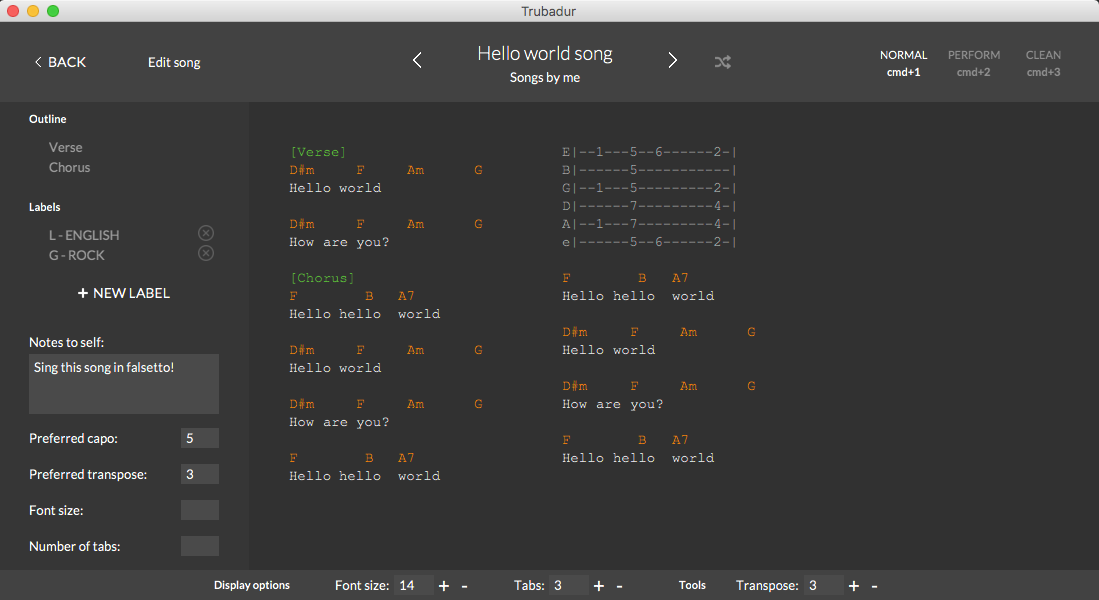
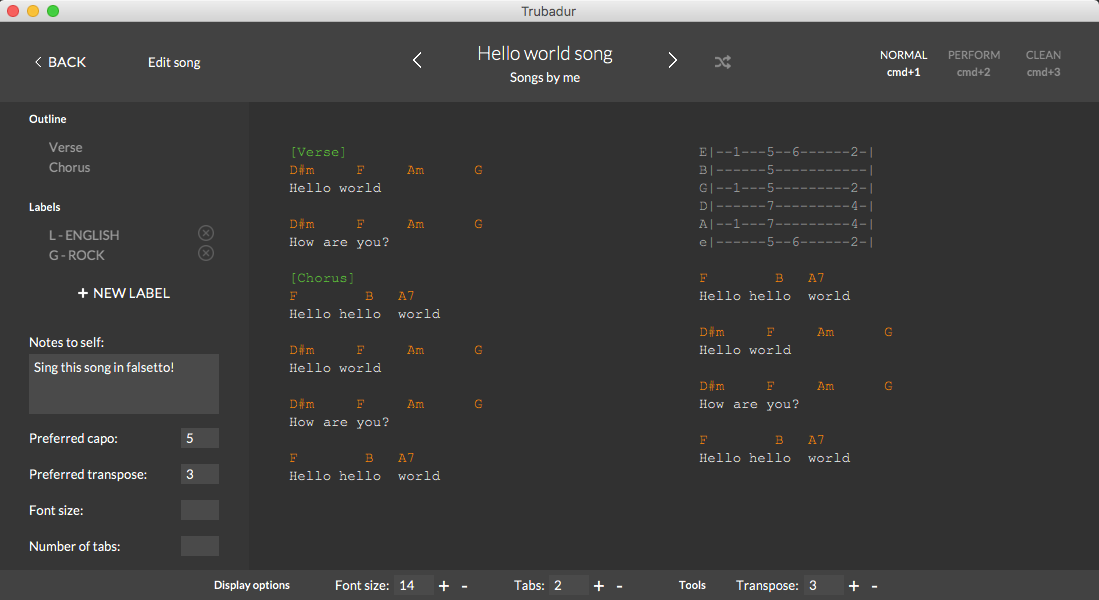
Added some images, changed some images and added a new selector for song-display images.

diff --git a/index.html b/index.html
@@ -79,14 +79,24 @@
                 <label>Select which songs to play.</label>
                 <div class="imageWrapper"><a class="active" href="images/song-overview5.png"><img src="images/song-overview5.png" /></a></div>
     
-                <label>Display selected songs. Add notes and transpose. Change font-size and number of tabs. Play selected songs with or without randomized order.</label>
-                <div class="imageWrapper"><a class="active" href="images/song-display1.png"><img src="images/song-display1.png" /></a></div>
+                <label>Display selected songs. Add notes and transpose. Change font-size and number of tabs. Play selected songs with or without randomized order. Show chords. Select recommended chords.</label>
+                <div class="imageWrapper">
+                    <a id="songDisplayImage1" class="active" href="images/song-display1.png"><img src="images/song-display1.png" /></a>
+                    <a id="songDisplayImage2" href="images/song-display2.png"><img src="images/song-display2.png" /></a>
+                    <a id="songDisplayImage3" href="images/song-display3.png"><img src="images/song-display3.png" /></a>
+
+                    <div class="imageSelector">
+                        <div class="active" onclick="handleSelectorClick(event, 'songDisplayImage1')">1</div>
+                        <div onclick="handleSelectorClick(event, 'songDisplayImage2')">2</div>
+                        <div onclick="handleSelectorClick(event, 'songDisplayImage3')">3</div>
+                    </div>
+                </div>
     
                 <label>Go to the Perform view mode. Keep track of the time spent, see upcoming songs and view your notes.</label>
-                <div class="imageWrapper"><a class="active" href="images/song-display2.png"><img src="images/song-display2.png" /></a></div>
+                <div class="imageWrapper"><a class="active" href="images/song-display4.png"><img src="images/song-display4.png" /></a></div>
     
                 <label>Go to the Clean view mode to only show the song text.</label>
-                <div class="imageWrapper"><a class="active" href="images/song-display3.png"><img src="images/song-display3.png" /></a></div>
+                <div class="imageWrapper"><a class="active" href="images/song-display5.png"><img src="images/song-display5.png" /></a></div>
     
                 <label>View your songs through the browser for a mobile or tablet experience.</label>
                 <div class="imageWrapper"><a class="active" href="images/read-only.png"><img src="images/read-only.png" /></a></div>
